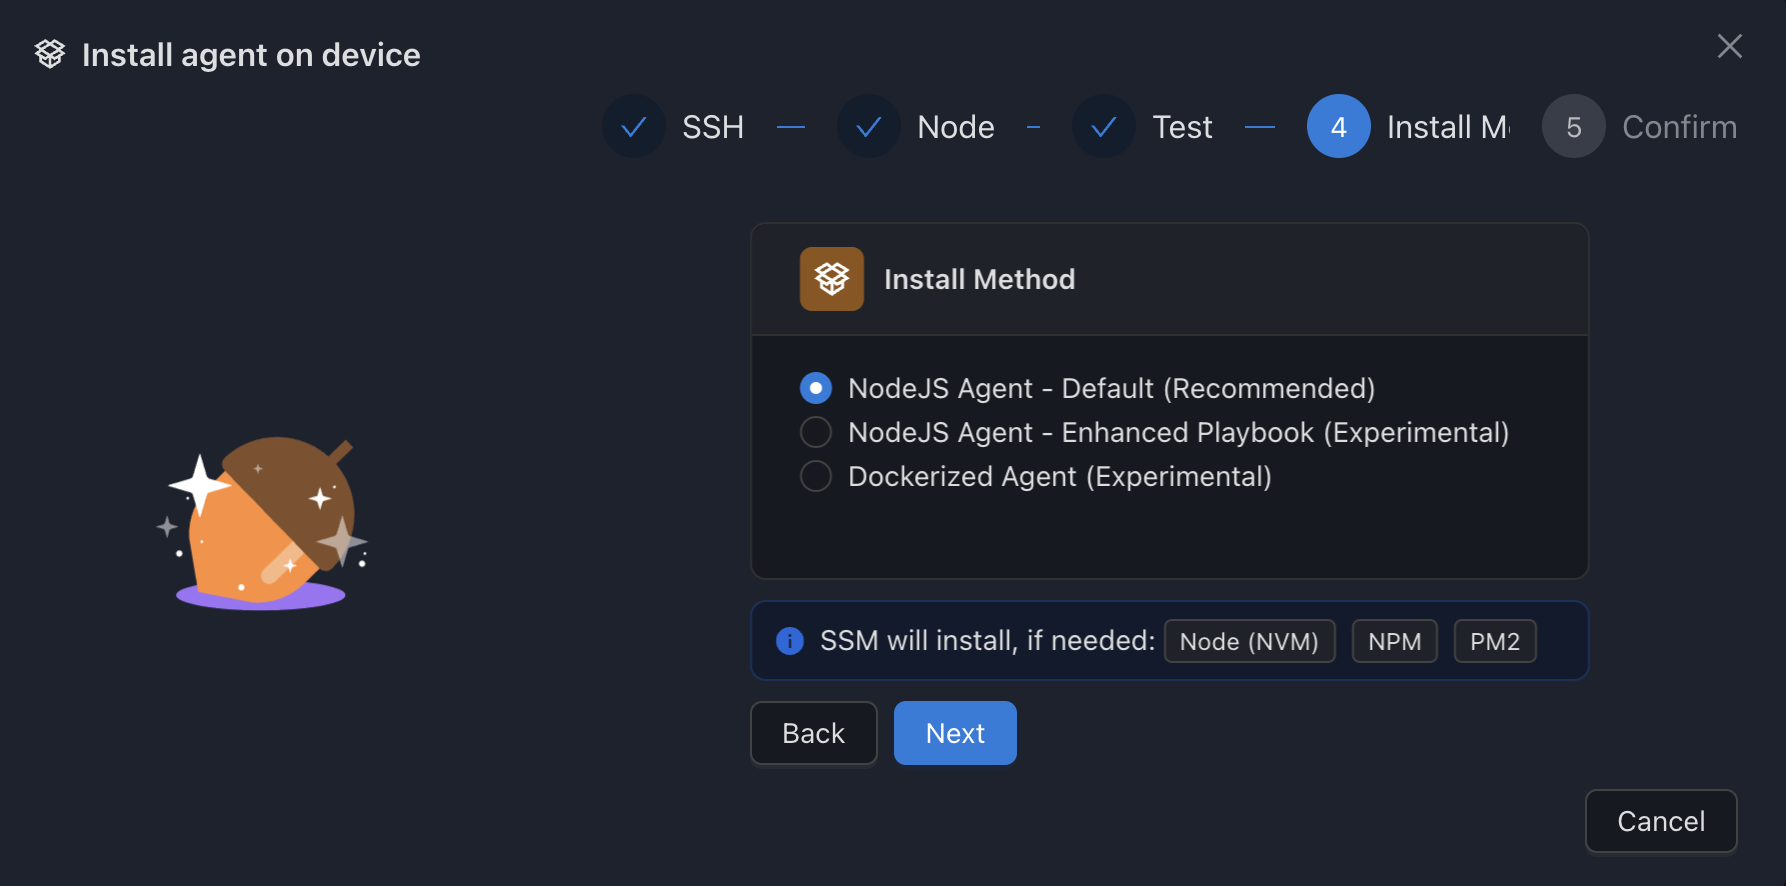
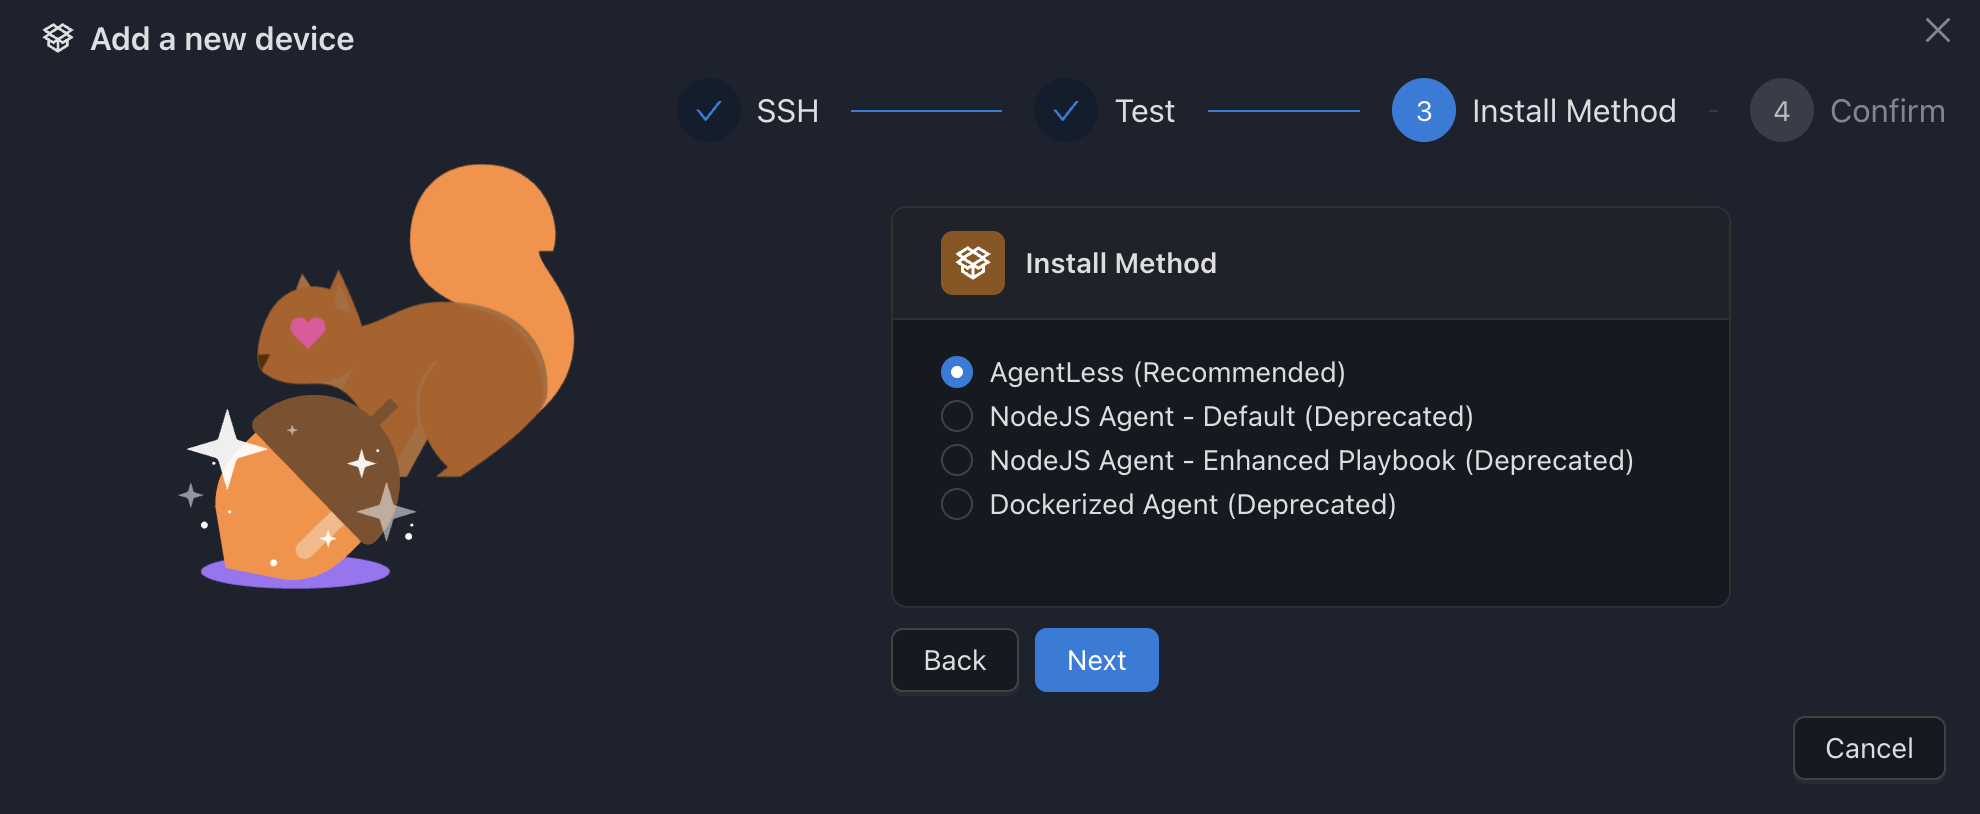
Remove unmanaged device documentation and streamline device setup
Deleted outdated agentless device documentation and updated the setup process for adding devices. Deprecated older agent installation methods in favor of agentless SSH-based management. Enhanced

diff --git a/site/.vitepress/config.ts b/site/.vitepress/config.ts
@@ -4,7 +4,7 @@ import { defineConfig } from 'vitepress';
 export default defineConfig({
   title: 'Squirrel Servers Manager',
   description:
-    'A user friendly, UI/UX focus server & configuration management tool',
+    'The most powerfully designed and user-friendly containers & configuration management tool.',
   appearance: 'force-dark',
   lastUpdated: true,
   cleanUrls: true,
@@ -136,9 +136,6 @@ export default defineConfig({
                   text: 'Adding a device', link: '/docs/devices/add-device.md'
                 },
                 {
-                  text: 'Adding an unmanaged device (agentless mode)', link: '/docs/devices/add-unamanaged.md'
-                },
-                {
                   text: 'Deleting a device', link: '/docs/devices/delete-device.md'
                 },
                 {
@@ -160,7 +157,7 @@ export default defineConfig({
                 },
                 {
                   text: 'Proxmox', items: [
-                    { text: 'Qemu/LXC Containers', link: '/docs/containers/deploy-store.md' }
+                    { text: 'Qemu/LXC Containers', link: '/docs/containers/qemu-lxc-containers.md' }
                   ]
                 },
                 ]

diff --git a/site/components/Diagram.vue b/site/components/Diagram.vue
@@ -107,6 +107,16 @@ const initialEdges = [
     style: { stroke: 'orange' },
     labelBgStyle: { fill: 'orange' },
     animated: true,
+  },
+  {
+    id: 'e1-4',
+    type: 'smoothstep',
+    source: '1',
+    target: '4',
+    label: 'SSH (Statistics)',
+    style: { stroke: 'orange' },
+    labelBgStyle: { fill: 'orange' },
+    animated: true,
   }
 ];
 

diff --git a/site/docs/devices/add-device.md b/site/docs/devices/add-device.md
@@ -5,11 +5,9 @@
 :::info Sum-up
 1. **Navigate to Inventory**: Install agent on new device.
 2. **Enter SSH Info**: Port, IP, sudo method, login type.
-3. **Verify Master Node URL**: Ensure it is correct and reachable.
-4. **Run Connection Tests**: Ansible and Docker checks.
-5. **Select Installation Method**: Directly on the host or dockerized
-6. **Confirm Details**: Click "Confirm & Install Agent".
-7. **Monitor Installation**: Track Ansible's progress.
+3. **Run Connection Tests**: Ansible and Docker checks.
+4. **Select Installation Method**: Directly on the host or dockerized
+5. **Confirm Details**: Click "Confirm".
 :::
 
 ## 1. Inventory
@@ -23,13 +21,7 @@ A modal will open. The first section contains the SSH connection information.
 - Specify the sudo method and, optionally, the associated user/password
 - Select the SSH login type (User/password or key-based)
 
-## 3. Adding a device: Master Node URL screen
-This section is automatically populated. Ensure that the master node URL is correct and reachable from the device you wish to add.
-![adddevice3](/add-device/add-device-3.png)
-This URL will be included with the agent during installation. Make sure it aligns with the SSM IP Address.
-In the next step, SSM will attempt to ping itself through this URL.
-
-## 4. Connection tests
+## 3. Connection tests
 ![adddevice4](/add-device/add-device-6.png)
 Ansible and Docker connections will automatically be initiated to test your previous inputs. Wait for the results and address any issues that may arise.
 If you need to use a different authentication method for Docker, you can later specify it in the Docker configuration (see [Device Configuration](/docs/devices/configuration/)).
@@ -38,19 +30,12 @@ If you need to use a different authentication method for Docker, you can later s
 ![adddevice4](/add-device/add-device-7.png)
 | Method                                    | Description                                                                                                                            | Will install if needed        |
 |-------------------------------------------|:---------------------------------------------------------------------------------------------------------------------------------------:|------------------------------|
-| Node Agent - Default                      | The default method, it will install directly on the host a PM2 backed Node.js agent                                                    | `NodeJS (NVM)`, `NPM`, `PM2`        |
-| Node Agent - Enhanced Playbook (Experimental) | Experimental method, it will install directly on the host a PM2 backed Node.js agent with an advanced playbook for various configurations and OS. Try this if you have difficulties with the first one | `NodeJS (NVM)`, `NPM`, `PM2`        |            
-| Dockerized Agent (Experimental)           | Experimental, a Dockerized version of the agent. As far as tests go, it works very well. Use only on Linux hosts (macOS not supported) | `Docker`, `Docker Compose`        |
+| AgentLess - Default                     | The default method, SSM will gather all information through SSH                                                    | /      |
+| Node Agent (Deprecated)                      | Deprecated method, it will install directly on the host a PM2 backed Node.js agent                                                    | `NodeJS (NVM)`, `NPM`, `PM2`        |
+| Node Agent - Enhanced Playbook (Deprecated) | Deprecated method, it will install directly on the host a PM2 backed Node.js agent with an advanced playbook for various configurations and OS. Try this if you have difficulties with the first one | `NodeJS (NVM)`, `NPM`, `PM2`        |            
+| Dockerized Agent (Deprecated)           | Deprecated, a Dockerized version of the agent. As far as tests go, it works very well. Use only on Linux hosts (macOS not supported) | `Docker`, `Docker Compose`        |
 
 ## 6. Adding a device: Confirmation screen
 ![adddevice4](/add-device/add-device-4.png)
-Verify that all information is correct and click on **"Confirm & Install agent"**.
+Verify that all information is correct and click on **"Confirm"**.
 
-## 7. Behold! The magic of SSM
-![adddevice5](/add-device/add-device-5.png)
-Monitor the progress of Ansible installing the agent on your device.
-
-:::warning ⚠ Agent installation failed
-Please note that **regardless** of the playbook's execution result, **the device has already been saved in the SSM database**.
-If the playbook's execution **fails**, you must attempt to reinstall the agent by going to **"Inventory"**, selecting your device, clicking on the bottom caret **"▽"** to the right, and then clicking on **"Reinstall Agent"**.
-:::

diff --git a/site/index.md b/site/index.md
@@ -5,8 +5,8 @@ title: 'Squirrel Servers Manager'
    
 hero:
   name: 'Squirrel Servers Manager (SSM)'
-  text: 'A user-friendly, UI/UX focused server & configuration management tool'
-  tagline: 'Powered by Ansible & Docker'
+  text: 'Powerful containers & servers management tool'
+  tagline: 'Powered by Ansible, Docker & Prometheus'
   image:
     src: /logo.svg
     alt: SSM
@@ -24,8 +24,8 @@ hero:
       link: https://discord.gg/cnQjsFCGKJ
 
 features:
-  - title: All your servers in one place
-    details: Available for many different platforms
+  - title: Agentless
+    details: Everything is done through SSH!
     icon:
       src: /flower-twirl.svg
   - title: Ansible & Docker Compatible
@@ -88,12 +88,6 @@ bash -c "$(wget -qLO - https://getssm.io/proxmox)"
 
 &nbsp;
 :::
-
----
-
-<div>
-<iframe width="560" height="315" style="margin-left: auto; margin-right: auto" src="https://www.youtube.com/embed/zxWa21ypFCk?si=PXVOJZ31wwxLqUOv" title="YouTube video player" frameborder="0" allow="accelerometer; autoplay; clipboard-write; encrypted-media; gyroscope; picture-in-picture; web-share" referrerpolicy="strict-origin-when-cross-origin" allowfullscreen></iframe>
-</div>
 
 ## Experience the immense power encapsulated within these tools, now presented through a user-friendly interface.
 

diff --git a/site/about.md b/site/about.md
@@ -8,7 +8,7 @@ import Swiper from './components/Swiper.vue';
 # About Squirrel Servers Manager
 
 ## <span style="display: flex; align-items: center;"><img src="/about/tldraw.svg" alt="tldr" style="margin-right: 8px;" /> TL;DR</span>
-Squirrel Servers Manager (SSM) is a <b>configuration & container manager</b>, powered by Ansible and Docker, **to manage all your servers in one place**! It focuses on UI/UX and ease of use.
+Squirrel Servers Manager (SSM) is a <b>configuration & container manager</b>, powered by Ansible, Docker and Prometheus, **to manage all your servers in one place**! It focuses on UI/UX and ease of use.
 
 :::info ℹ Some examples of what you can do with it:
 - Apply system updates to single or multiple servers

diff --git a/site/docs/containers/qemu-lxc-containers.md b/site/docs/containers/qemu-lxc-containers.md
@@ -1,0 +1,1 @@
+# QEMU / LXC Containers
